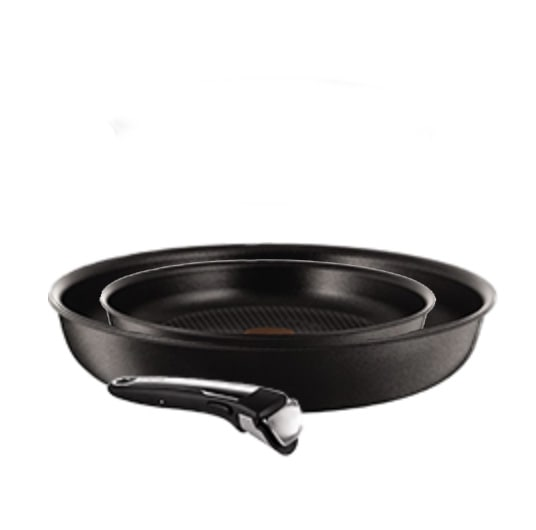
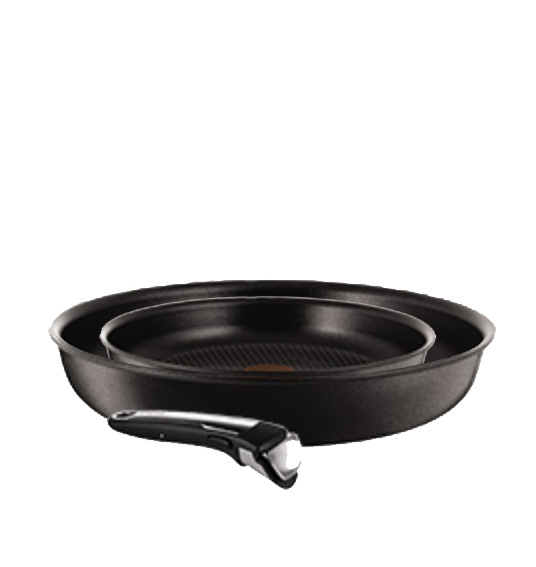
pan task upd

Changed region(s): [[0.0896, 0.4528, 0.9254, 0.8755]]

diff --git a/index.html b/index.html
@@ -8,11 +8,12 @@
 </head>
 <body>
     <h1>Hello</h1>
-    <h3>Hometask 1</h3>
+     <h3>Hometask 1</h3>
     <p><a href="home1/home1-Diary.html"> Diary - CHECKED || <a href="https://validator.w3.org/nu/?doc=https%3A%2F%2Fivancharniak.github.io%2FIvanCrarniak%2Fhome1%2Fhome1-Diary.html">Check validation</a></p>
     <p><a href="home1/Vechno-student.html">Vechno-student - CHECKED || <a href="https://validator.w3.org/nu/?doc=https%3A%2F%2Fivancharniak.github.io%2FIvanCrarniak%2Fhome1%2FVechno-student.html">Check validation</a></a></p>
     <p><a href="home1/Vizbor.html">Vizbor - CHECKED || <a href="https://validator.w3.org/nu/?doc=https%3A%2F%2Fivancharniak.github.io%2FIvanCrarniak%2Fhome1%2FVizbor.html">Check validation</a></a></p>
-    <h3>Hometask 2</h3>
+    <hr>
+      <h3>Hometask 2</h3>
     <p><a href="home 2/childbook.html">Childbook</a></p>
     <p><a href="home 2/skobki.html">Skobki</a></p>
     <p><a href="home 2/pan.html">MagicPan</a></p>

diff --git a/home 2/Pan.html b/home 2/Pan.html
@@ -7,6 +7,7 @@
     <title>Document</title>
 </head>
 <body>
-    <img src="http://fe.it-academy.by/Sites/0040523/img1.jpg">
+    <img src="/home 2/pan.jpg">
+    <a href="https://drive.google.com/file/d/1uMXg-Ek-C4ApMsyLa9UweotKGGAMq0Yi/view?usp=sharing" >View Pan.psd</a>
 </body>
 </html>
